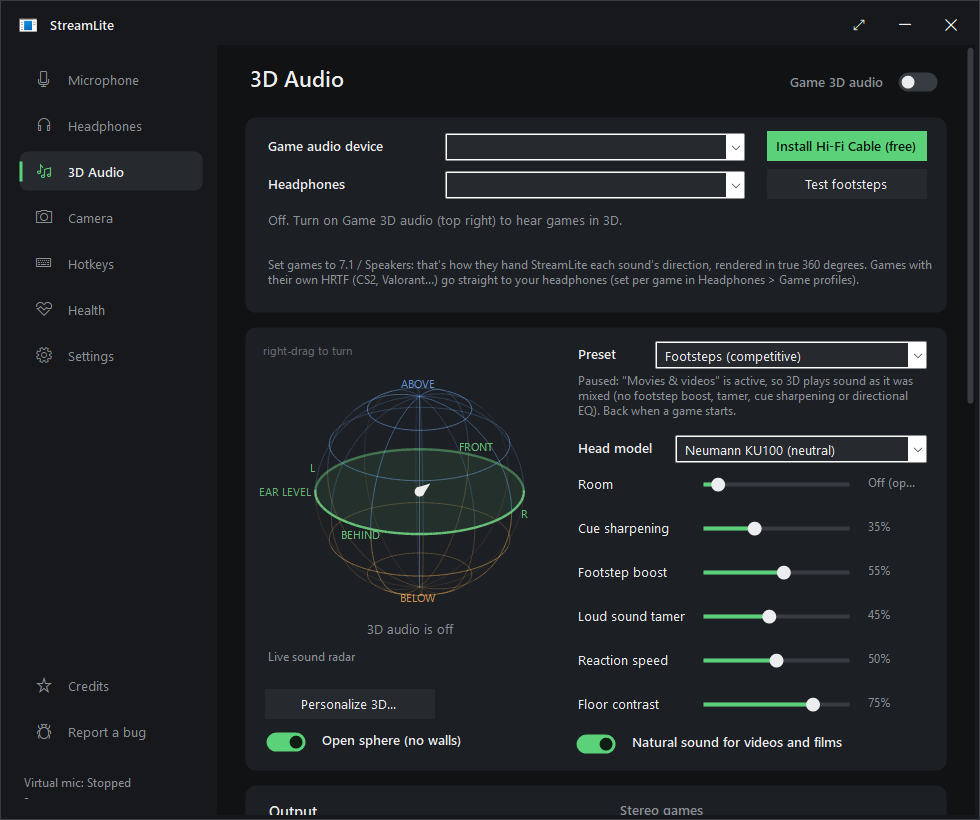
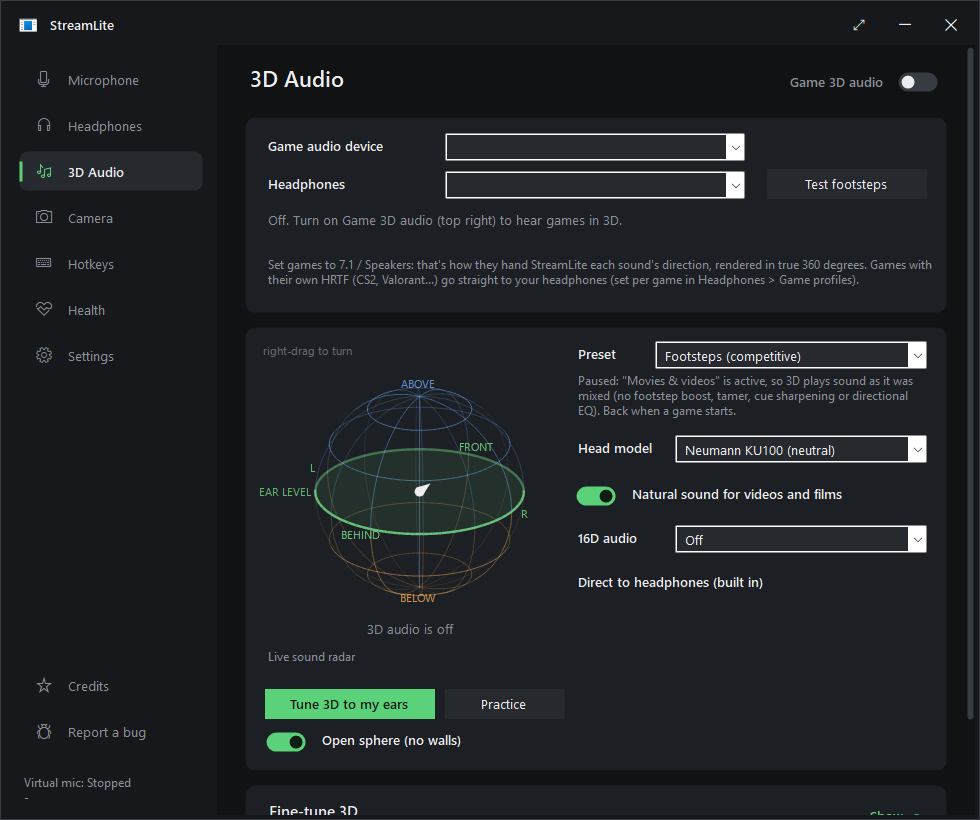
4.1.0: StreamLite is the audio engine; Practice mode; teleprompter voice setup; air drawing and camera animations; hotkeys for everything
- Audio: the engine always runs, Direct to headphones built in (Discord full-screen share keeps every app's sound),
  16D Off / Music apps / All apps, Equalizer APO in the setup
- 3D: Practice mode next to Tune 3D to my ears; a tidier page with folds
- Mic: Tune to my voice as a teleprompter (word by word, green as you say it), best quality after tuning
- Camera: air drawing, a switch per gesture (never forcing AI tracking on), animations, camera hotkeys
- Hotkeys for everything, a cleaner page and add/edit popup
- Setup: Keep my settings when updating, tile pickers, in-app popups that fit their text
- Launch with Windows and Run as administrator on by default; smoother first page opens
- Fixes: the update restarts its own copy (not the installed one through the admin task); VB-CABLE's
  spare 16ch end never taken for the mic feed; every page label fits (new PageFitTest)
- Docs: README and manual for 4.1 with new screenshots

diff --git a/docs/index.html b/docs/index.html
@@ -118,7 +118,7 @@ footer { border-top: 1px solid var(--line); padding: 30px 0 50px; color: var(--m
       <div class="card"><span class="tag">Microphone</span><h3>Sounds like a good mic</h3><p>It includes a noise gate, auto level, compressor, de-esser, de-hum, EQ and voice styles. Record yourself and hear the result before your friends do.</p></div>
       <div class="card"><span class="tag">Games</span><h3>3D game audio</h3><p>Games' 7.1 sound becomes 3D sound on any headphones, using measured human-like heads. You get true 360° placement, a footstep boost and a loud-sound tamer.</p></div>
       <div class="card"><span class="tag">Games</span><h3>A sound sphere you can turn</h3><p>It shows where sounds come from all around you: the green ear-level ring, blue above, orange below. Drag it to look from any side. Open sphere takes out walls and floors, so footsteps are never muffled.</p></div>
-      <div class="card"><span class="tag">Games</span><h3>Personalize 3D</h3><p>Fly into the sphere and click where someone walks - in front, behind, left, right, above or below, with CS2's own footsteps. In about 4 minutes it finds which of 20 measured heads fits your ears.</p></div>
+      <div class="card"><span class="tag">Games</span><h3>Personalize 3D</h3><p>Fly into the sphere and click where someone walks - in front, behind, left, right, above or below, with CS2's own footsteps. In about 4 minutes it finds which of 20 measured heads fits your ears. Practice mode trains you on your current settings for as long as you like.</p></div>
       <div class="card"><span class="tag">Headphones</span><h3>EQ for (almost) every headphone</h3><p>Thousands of measured models from AutoEq, plus squig.link's reviewers for the rest (gaming headsets too) - StreamLite makes the EQ itself. Still missing? Report it in one click.</p></div>
       <div class="card"><span class="tag">Headphones</span><h3>Presets that switch - or play together</h3><p>Each game gets its own sound, Music while Spotify plays, Chat while Discord is open. Presets together plays your game's preset on the game and Music's on Spotify at the same time.</p></div>
       <div class="card"><span class="tag">Windows</span><h3>Guided setup</h3><p>The first start walks you through everything on your whole screen: mic, headphone EQ engine, your voice, your headphones' EQ and 3D audio. Leave half way and it picks up where you left off.</p></div>
@@ -210,7 +210,7 @@ sudo zypper install --allow-unsigned-rpm ./streamlite-*.x86_64.rpm</code></pre>
     <table>
       <tr><th>Setting</th><th>What it does</th></tr>
       <tr><td>Noise removal</td><td>Voice isolation is built in - there's no engine to pick. StreamLite runs <b>DeepFilterNet 3</b>, on your graphics card on Windows or on the CPU (<b>RNNoise</b> on CPUs with fewer than 12 threads). <b>Strength</b> sets how far background noise is turned down.</td></tr>
-      <tr><td>Tune to my voice <span class="small">(Windows)</span></td><td>Five short recordings read like a teleprompter: big text, two lines in the middle, each word turning green the moment you say it (Windows' offline speech recognizer follows you word by word). Then StreamLite sets the best noise removal and quality your PC can run - DeepFilterNet on the graphics card when it fits, studio voice, the AI quality for your hardware - and shows what it chose.</td></tr>
+      <tr><td>Tune to my voice <span class="small">(Windows)</span><br><img src="img/windows-voice.png" alt="Tune to my voice: the teleprompter with the words read so far in green" loading="lazy" width="300"></td><td>Five short recordings read like a teleprompter: big text, two lines in the middle, each word turning green the moment you say it (Windows' offline speech recognizer follows you word by word). Then StreamLite sets the best noise removal and quality your PC can run - DeepFilterNet on the graphics card when it fits, studio voice, the AI quality for your hardware - and shows what it chose.</td></tr>
       <tr><td>Studio voice</td><td>On by default (Microphone page). Makes any mic sound like a broadcast mic: while you talk it learns how your voice comes through this mic and takes out the mic's colouring (thin, boxy, harsh, muffled - at most -10 / +8 dB, smooth), rebuilds the treble cheap mics cut off (headsets, laptops, Bluetooth stop at 7-13 kHz) and catches plosive pops. Learned in about 5 seconds of talking and kept per mic; <b>Learn again</b> after moving the mic. Adds no delay.</td></tr>
       <tr><td>Record a sound to remove <span class="small">(Windows)</span></td><td>For a sound noise removal lets through: a TV, kids, music. Let it play, stay quiet and press <b>Record</b> (Tuning &amp; EQ → Noise removal). In 8 seconds StreamLite learns what the noise remover leaves of it and takes that out from then on (adds 21 ms). Your own voice is learned in the background while you talk, so it isn't mistaken for the sound. For steady noise like a fan it tells you the noise remover already handles it.</td></tr>
       <tr><td>AI quality <span class="small">(Windows, Settings)</span></td><td>Where voice isolation and the AI camera run and how big their models are. <b>Low VRAM</b>: small 16-bit models, about 210 MB of video memory, the camera in 1080p. <b>Normal</b>: the full models, about 430-490 MB. <b>High VRAM</b>: the camera's cut-out worked out at full HD - cleaner hair and edges, fewer halos - about 860-890 MB. <b>Full CPU</b>: nothing on the graphics card (slowest). StreamLite picks what fits your graphics card the first time.</td></tr>
@@ -302,15 +302,30 @@ sudo zypper install --allow-unsigned-rpm ./streamlite-*.x86_64.rpm</code></pre>
     <ul>
       <li><b>AI tracking</b> of one person (click a face on the preview to switch) or a <b>group</b> (everyone stays in)</li>
       <li><b>Framing</b>: head and shoulders, half body, whole body or your own zoom, with headroom</li>
-      <li><b>Gestures</b> beside your face: open palm = tracking on/off, V = whiteboard, L = zoom (move your hand up or down)</li>
+      <li><b>Gestures</b> beside your face, each with its own switch (Camera &rarr; Gestures &amp; air drawing): open palm = tracking on/off, V = whiteboard or air drawing, L = zoom (move your hand up or down). Gestures never turn AI tracking on by themselves - only the palm does, when its switch is on.</li>
+      <li><b>Air drawing</b>: set <i>V does</i> to air drawing, make a V, then point your index finger and write in the air ("Hi!"); any other hand pose lifts the pen, a V stops. Pen colour, thickness and fading are yours; <b>Clear drawing</b> wipes it.</li>
+      <li><b>Animations</b> apps see: flip upside down, spin around, barrel roll, zoom punch and shake - buttons on the Camera page and hotkeys</li>
       <li><b>Tracking zone</b> (it never shows anything outside it) and up to six <b>pause zones</b> (step in and it frames the zone and holds still)</li>
       <li>Your own view: <b>drag</b> the preview to move, <b>mouse wheel</b> to zoom, six <b>presets</b> (also on hotkeys)</li>
       <li><b>Whiteboard</b> (found automatically, squared off, writing enhanced) and <b>desk view</b> (an area you mark)</li>
       <li><b>Level</b> a tilted camera, <b>upside down</b> for hanging or overhead cameras, a <b>vertical 9:16 guide</b> for TikTok and Shorts</li>
       <li><b>Privacy</b>: apps see "Camera paused" (button, hotkey, or automatically when you leave)</li>
     </ul>
+    <figure><img src="img/windows-camera-gestures.png" alt="The Camera page's AI tracking and Gestures &amp; air drawing cards" loading="lazy" width="720" height="854"><figcaption class="small">AI tracking, a switch per gesture, air drawing and animations</figcaption></figure>
     <p>The camera page also has every setting of your real webcam: exposure, focus, white balance and format.</p>
     <p>How good the cut-out is follows <b>AI quality</b> in Settings: <b>High VRAM</b> gives the cleanest hair and edges; on a graphics card with little video memory, pick <b>Low VRAM</b>.</p>
+  </div>
+</section>
+
+<section id="hotkeys">
+  <div class="wrap">
+    <h2>Hotkeys</h2>
+    <p>On the <b>Hotkeys</b> page, <b>Add hotkey</b> opens a popup: pick the area (Microphone, Headphones &amp; 3D, Camera, StreamLite), the action, and press the key - any key with Ctrl / Alt / Shift / Win, or a mouse side button. Click a hotkey to change it, &times; to remove it.</p>
+    <ul>
+      <li><b>Microphone</b>: mute, push to talk / to mute, noise removal, studio voice, voice lock, across the room, record a sound to remove, raw mic, voice styles</li>
+      <li><b>Headphones &amp; 3D</b>: 3D on/off, presets, 16D (next / off / music apps / all apps), open sphere, presets together, 3D for stereo, limiter, volume up / down, head model, headphone correction</li>
+      <li><b>Camera</b>: backgrounds, AI tracking, framing, upside down, HDR, zones, privacy, each gesture, air drawing and clearing it, and the animations (flip upside down, spin, barrel roll, zoom punch, shake)</li>
+    </ul>
   </div>
 </section>
 

diff --git a/test/PageFitTest.cs b/test/PageFitTest.cs
@@ -1,0 +1,64 @@
+// Every page's text fits (4.1, "make sure formatting works and everything fits"): the main window off screen with fresh
+// settings, every page shown with its folded cards opened, and every label measured - text that needs more room than
+// its label has (cut off, or "..." at the end) is a failure. Usage: run.ps1 PageFitTest
+using System;
+using System.Collections.Generic;
+using System.Drawing;
+using System.IO;
+using System.Linq;
+using System.Reflection;
+using System.Windows.Forms;
+using StreamLite;
+using StreamLite.UI;
+
+class PageFitTest
+{
+    static int fails;
+    static void Check(bool ok, string what) { Console.WriteLine((ok ? "  PASS " : "  FAIL ") + what); if (!ok) fails++; }
+
+    static IEnumerable<Control> Descend(Control c) { foreach (Control k in c.Controls) { yield return k; foreach (var d in Descend(k)) yield return d; } }
+
+    [STAThread]
+    static void Main()
+    {
+        string data = Path.Combine(Path.GetTempPath(), "StreamLite-pagefit");
+        Directory.CreateDirectory(data); foreach (var f in Directory.GetFiles(data)) File.Delete(f);
+        Environment.SetEnvironmentVariable("STREAMLITE_DATA", data);
+        Application.EnableVisualStyles();
+        var core = new AppCore();
+        foreach (var f in typeof(AppCore).GetFields(BindingFlags.Instance | BindingFlags.NonPublic | BindingFlags.Public)) if (f.FieldType == typeof(Timer)) { var tm = (Timer)f.GetValue(core); if (tm != null) tm.Stop(); }
+        var main = new MainForm(core) { ShowInTaskbar = false, StartPosition = FormStartPosition.Manual, Location = new Point(-20000, -20000), Size = new Size(980, 820) };
+        main.Show(); Application.DoEvents();
+        var pages = (System.Collections.IList)typeof(MainForm).GetField("pages", BindingFlags.Instance | BindingFlags.NonPublic).GetValue(main);
+        var show = typeof(MainForm).GetMethod("ShowPage", BindingFlags.Instance | BindingFlags.NonPublic);
+        var over = new List<string>();
+        int measured = 0;
+        for (int i = 0; i < pages.Count; i++)
+        {
+            var page = (Control)pages[i];
+            show.Invoke(main, new object[] { i });
+            Application.DoEvents();
+            string name = page.Controls.OfType<Label>().Select(l => l.Text).FirstOrDefault() ?? ("page " + i);
+            // Open every fold ("Show"), so the text inside them is measured too.
+            foreach (var chev in Descend(page).OfType<Label>().Where(l => l.Text.StartsWith("Show")).ToList()) { chev.GetType().GetMethod("OnClick", BindingFlags.Instance | BindingFlags.NonPublic).Invoke(chev, new object[] { EventArgs.Empty }); }
+            Application.DoEvents();
+            foreach (var l in Descend(page).OfType<Label>())
+            {
+                if (!l.Visible || string.IsNullOrEmpty(l.Text) || l.Width <= 0) continue;
+                measured++;
+                var flags = TextFormatFlags.NoPrefix | (l.UseMnemonic ? 0 : TextFormatFlags.NoPrefix);
+                Size need;
+                if (l.AutoSize) continue;   // grows with its text
+                bool oneLine = l.Height < l.Font.Height * 2 - 2;
+                if (oneLine) need = TextRenderer.MeasureText(l.Text, l.Font, new Size(int.MaxValue, l.Height), flags | TextFormatFlags.SingleLine);
+                else need = TextRenderer.MeasureText(l.Text, l.Font, new Size(l.Width - l.Padding.Horizontal, int.MaxValue), flags | TextFormatFlags.WordBreak);
+                bool fits = oneLine ? need.Width <= l.Width + 2 : need.Height <= l.Height + 2;
+                if (!fits) over.Add(name + ": \"" + (l.Text.Length > 60 ? l.Text.Substring(0, 60) + "..." : l.Text) + "\" needs " + need.Width + "x" + need.Height + ", has " + l.Width + "x" + l.Height);
+            }
+        }
+        foreach (var o in over) Console.WriteLine("    " + o);
+        Check(over.Count == 0, measured + " labels on " + pages.Count + " pages (folds open): " + over.Count + " don't fit");
+        Console.WriteLine(fails == 0 ? "ALL PASS" : fails + " FAILED");
+        main.Hide(); Environment.Exit(fails);
+    }
+}

diff --git a/src/Credits.cs b/src/Credits.cs
@@ -31,7 +31,7 @@ namespace StreamLite
         public static readonly string[] Groups = { Models, Libraries, Ideas, Downloads, Tools };
 
         /// <summary>Every public release, oldest first.</summary>
-        public static readonly string[] Versions = { "2.1.0", "2.2.0", "2.2.1", "2.2.2", "2.3.0", "2.3.1", "2.4.0", "2.5.0", "2.6.0", "2.7.0", "3.0.0", "3.0.1", "3.0.2", "3.1.0", "3.1.1", "3.2.0", "3.3.0", "3.3.1", "3.4.0", "3.5.0", "3.5.1", "3.5.2", "3.5.3", "3.5.4", "3.5.5", "3.5.6", "3.5.7", "3.5.8", "3.5.9", "4.0.0", "4.0.1", "4.0.2", "4.0.3", "4.0.4", "4.0.5", "4.0.6", "4.0.7", "4.0.8", "4.0.9" };
+        public static readonly string[] Versions = { "2.1.0", "2.2.0", "2.2.1", "2.2.2", "2.3.0", "2.3.1", "2.4.0", "2.5.0", "2.6.0", "2.7.0", "3.0.0", "3.0.1", "3.0.2", "3.1.0", "3.1.1", "3.2.0", "3.3.0", "3.3.1", "3.4.0", "3.5.0", "3.5.1", "3.5.2", "3.5.3", "3.5.4", "3.5.5", "3.5.6", "3.5.7", "3.5.8", "3.5.9", "4.0.0", "4.0.1", "4.0.2", "4.0.3", "4.0.4", "4.0.5", "4.0.6", "4.0.7", "4.0.8", "4.0.9", "4.1.0" };
 
         /// <summary>What changed in the credits with each release.</summary>
         public static readonly Dictionary<string, string> Changes = new Dictionary<string, string>
@@ -61,6 +61,7 @@ namespace StreamLite
             { "3.5.3", "No new third-party code, models or data. Uninstalling can now remove VB-CABLE, Hi-Fi Cable and Equalizer APO (already credited) with Windows' pnputil and Equalizer APO's own uninstaller." },
             { "3.5.5", "No new third-party code, models or data." },
             { "3.5.4", "No new third-party code, models or data. VB-CABLE and Hi-Fi Cable (VB-Audio, credited here) now appear on your PC only as StreamLite - In / StreamLite - Out (Device Manager included); their setup leftovers are tidied away." },
+            { "4.1.0", "StreamLite is the audio engine (Direct to headphones built in); Practice mode; teleprompter voice setup with Windows' own speech recognizer; air drawing and camera animations; hotkeys for everything; in-app popups; smoother pages" },
             { "4.0.9", "Loose ends before 4.1: presets together gives apps back when off, no 16D over a game, setup resume keeps your EQ, squig.link lookups retried and shared" },
             { "4.0.8", "The 3D Audio page's sound radar is a sphere (Windows and Linux); GitHub page and manual up to date" },
             { "4.0.7", "Presets together (game + music at once); squig.link backup for headphone EQs and a report button; setup sphere; every footstep starts facing forward" },

diff --git a/test/RetuneShots.cs b/test/RetuneShots.cs
@@ -137,6 +137,17 @@ class RetuneShots
         Check(phase() == "Quiet" || phase() == "Talk", "when the countdown ends, recording starts (" + phase() + ")");
         Check(rec.Mode == RecordButton.Look.Recording, "the button turns red while recording");
         Save(v, dir, "6-recording");
+        // Half way through the first line: the words read so far green, the rest white (the picture in the manual).
+        var prompter = (Teleprompter)t.GetField("prompter", Any).GetValue(v);
+        if (phase() == "Quiet") { t.GetField("phase", Any).SetValue(v, Enum.Parse(t.GetField("phase", Any).FieldType, "Talk")); }
+        prompter.Visible = true; prompter.Heard = 15; prompter.Run(true); prompter.Run(false);
+        // Its frames stepped by hand (no message loop: the dialog's own timer would set the words heard back to the mic's).
+        var step = typeof(Teleprompter).GetMethod("Step", Any);
+        var settleUntil = DateTime.Now.AddMilliseconds(700);
+        while (DateTime.Now < settleUntil) { step.Invoke(prompter, null); System.Threading.Thread.Sleep(8); }
+        ((Timer)t.GetField("timer", Any).GetValue(v)).Stop();
+        ((Label)t.GetField("progress", Any).GetValue(v)).Text = "15 of " + prompter.WordCount + " words";
+        Save(v, dir, "7-reading");
         v.Close(); v.Dispose();
         Console.WriteLine("  pictures in " + Path.GetFullPath(dir));
         Console.WriteLine(fails == 0 ? "ALL PASS" : fails + " FAILED");

diff --git a/src/UI/GameAudioPage.cs b/src/UI/GameAudioPage.cs
@@ -261,7 +261,7 @@ namespace StreamLite.UI
             fineCard = fine;
             var fineTitle = Theme.Help(Theme.Label(fine, "Fine-tune 3D", 20, 16, Theme.Section), "The settings 3D presets and Personalize 3D set for you - adjust them by hand here.");
 
-            Row(fine, 20, 56, "Room", 0, 150, () => G.Room, v => G.Room = v, v => G.OpenSphere ? "Off (open sphere)" : v == 0 ? "Off (dry)" : v + "%",
+            Row(fine, 20, 56, "Room", 0, 150, () => G.Room, v => G.Room = v, v => G.OpenSphere ? "Off" : v == 0 ? "Off (dry)" : v + "%",   // open sphere: no room (its help says why; the longer text didn't fit)
 
                 "Adds the reflections of a real studio room (measured with the same head). A little room makes sound feel outside your head instead of inside it.\n0 = completely dry and most precise, 15-30% = natural, more = spacious.\nOnly with Open sphere off - the open sphere has no walls to reflect from.");
 

diff --git a/src/UI/CameraGesturesCard.cs b/src/UI/CameraGesturesCard.cs
@@ -106,7 +106,7 @@ namespace StreamLite.UI
         /// <summary>What the gestures are doing, or exactly why they can't.</summary>
         string Status()
         {
-            if (!HandGestures.Installed) return "The hand models aren't installed (ai\\" + HandGestures.PalmFile + ", " + HandGestures.LandmarkFile + ") - reinstall StreamLite to use gestures and air drawing.";
+            if (!HandGestures.Installed) return "The hand models aren't installed - reinstall StreamLite to use gestures and air drawing.";   // (ai\" + PalmFile / LandmarkFile: too long for its line)
             if (!CameraFx.ModelsInstalled) return "The camera's AI files (with its face detector) are missing - reinstall StreamLite; gestures need them to find your face.";
             var fx = core.CamFx;
             if (fx == null) return "";

diff --git a/src/UI/MainForm.cs b/src/UI/MainForm.cs
@@ -1279,7 +1279,7 @@ namespace StreamLite.UI
         {
             var eq = core.S.MicEq;
             int n = eq.AllFilters().Count;
-            eqSummary.Text = !eq.Enabled ? "Off" : n == 0 ? "Flat - open Tuning to shape your voice" : n + " bands adjusted";
+            eqSummary.Text = !eq.Enabled ? "Off" : n == 0 ? "Flat" : n + " bands adjusted";   // fits its 150 px (the Tuning & EQ button is right beside it)
         }
 
         /// <summary>"Mic to cable 5.1 ms (low latency) + 20 ms noise removal - sent privately".</summary>

diff --git a/src/Program.cs b/src/Program.cs
@@ -12,8 +12,8 @@ using StreamLite.UI;
 [assembly: AssemblyProduct("StreamLite")]
 [assembly: AssemblyDescription("Microphone noise removal, EQ, 3D game audio and camera controls")]
 [assembly: AssemblyCompany("StreamLite")]
-[assembly: AssemblyVersion("4.0.9.0")]
-[assembly: AssemblyFileVersion("4.0.9.0")]
+[assembly: AssemblyVersion("4.1.0.0")]
+[assembly: AssemblyFileVersion("4.1.0.0")]
 
 namespace StreamLite
 {

diff --git a/linux/Program.cs b/linux/Program.cs
@@ -12,7 +12,7 @@ namespace StreamLite
 {
     internal static class Program
     {
-        public const string Version = "4.0.9";
+        public const string Version = "4.1.0";
         const string PipeName = "streamlite-show";
 
         [STAThread]

diff --git a/CREDITS.md b/CREDITS.md
@@ -5,6 +5,66 @@ with links to their source. The same list is in the app (the **Credits** button 
 GitHub release. Licenses and notices: [THIRD-PARTY-NOTICES.md](THIRD-PARTY-NOTICES.md).
 This file is generated from `src/Credits.cs` (run `test\run.ps1 CreditsTest write`).
 
+## StreamLite 4.1.0
+
+_StreamLite is the audio engine (Direct to headphones built in); Practice mode; teleprompter voice setup with Windows' own speech recognizer; air drawing and camera animations; hotkeys for everything; in-app popups; smoother pages_
+
+**AI models and measured data**
+
+- [DeepFilterNet 3](https://github.com/Rikorose/DeepFilterNet) - AI noise removal (studio-quality model). Hendrik Schröter, Tobias Rosenkranz, Alberto N. Escalante-B., Andreas Maier. MIT or Apache-2.0. [Model / data](https://huggingface.co/kimtos-labs/denoiser-dfn3).
+- [torchDF](https://github.com/grazder/DeepFilterNet) - Streaming ONNX export of DeepFilterNet 3 (the model file StreamLite runs). grazder. MIT or Apache-2.0.
+- [RNNoise](https://github.com/xiph/rnnoise) - Light AI noise removal (C# port of v0.1.1 and its trained model). Jean-Marc Valin, Mozilla, Xiph.Org Foundation. BSD-3-Clause. [Model / data](https://github.com/xiph/rnnoise/blob/v0.1.1/src/rnn_data.c).
+- [SADIE II HRTF database](https://www.york.ac.uk/sadie-project/database.html) - 3D audio: measured head responses at full resolution - the KU100 and KEMAR dummy heads and 18 human heads. University of York - C. Armstrong, L. Thresh, D. Murphy, G. Kearney. Apache-2.0.
+- [Robust Video Matting](https://github.com/PeterL1n/RobustVideoMatting) (Windows) - AI camera: cuts you out of the room (blur, green screen, picture, video). Shanchuan Lin, Linjie Yang, Imran Saleemi, Soumyadip Sengupta (ByteDance). GPL-3.0. [Model / data](https://github.com/PeterL1n/RobustVideoMatting/releases/download/v1.0.0/rvm_mobilenetv3_fp32.onnx).
+- [Ultra-Light-Fast-Generic-Face-Detector-1MB (UltraFace)](https://github.com/Linzaer/Ultra-Light-Fast-Generic-Face-Detector-1MB) (Windows) - AI camera: face tracking. Linzaer. MIT. [Model / data](https://github.com/Linzaer/Ultra-Light-Fast-Generic-Face-Detector-1MB/blob/master/models/onnx/version-RFB-320.onnx).
+- [MediaPipe Hands (palm detection + hand landmarks)](https://github.com/opencv/opencv_zoo) (Windows) - AI camera: hand gestures (open palm, V, L) - the 2023 models as published in the OpenCV model zoo. Google (MediaPipe); OpenCV model zoo. Apache-2.0. [Model / data](https://huggingface.co/opencv/palm_detection_mediapipe).
+- [3D-Speaker CAM++ (speech_campplus_sv_en_voxceleb_16k)](https://github.com/modelscope/3D-Speaker) (Windows) - Only my voice: tells your voice from someone else's in the room (speaker recognition, trained on VoxCeleb). Alibaba Group (3D-Speaker); ONNX export by k2-fsa/sherpa-onnx. Apache-2.0. [Model / data](https://github.com/k2-fsa/sherpa-onnx/releases/tag/speaker-recongition-models).
+- [SoundGuys headphone measurements](https://www.soundguys.com) - Built-in correction for the Sennheiser MOMENTUM 5 (B&K 5128 measurement). SoundGuys. Measurement used with thanks.
+- [Counter-Strike 2 footstep sounds](https://www.counter-strike.net) (Windows) - Personalize 3D's footsteps when CS2 is installed: read from the game on your PC while the test runs - not included in StreamLite. Valve Corporation. Valve's; read from your own copy of the game, never copied or shipped.
+
+**Libraries and runtimes**
+
+- [ONNX Runtime](https://github.com/microsoft/onnxruntime) - Runs the AI models (and, from 2.3.0, optimizes the Low VRAM model files). Microsoft. MIT.
+- [DirectML](https://github.com/microsoft/DirectML) (Windows) - Runs the AI models on any DirectX 12 graphics card. Microsoft. Microsoft Software License Terms (redistributable).
+- [.NET runtime](https://github.com/dotnet/runtime) (Linux) - Runs StreamLite for Linux (included). .NET Foundation and contributors. MIT.
+- [Avalonia UI](https://github.com/AvaloniaUI/Avalonia) (Linux) - The Linux interface. AvaloniaUI OÜ and contributors. MIT.
+- [SkiaSharp / HarfBuzzSharp](https://github.com/mono/SkiaSharp) (Linux) - Drawing and text for the Linux interface (Skia, HarfBuzz). Microsoft / .NET Foundation; Google (Skia); the HarfBuzz authors. MIT; BSD-3-Clause (Skia); MIT (HarfBuzz).
+- [Inter](https://github.com/rsms/inter) (Linux) - Interface font. Rasmus Andersson. SIL Open Font License 1.1.
+- [PipeWire / PulseAudio](https://pipewire.org) (Linux) - Linux audio (your system's libpulse and pactl). Wim Taymans and the PipeWire contributors; the PulseAudio developers. MIT / LGPL-2.1.
+
+**Code, ideas and research**
+
+- [EarTrumpet](https://github.com/File-New-Project/EarTrumpet) (Windows) - How per-app audio routing works on Windows. File-New-Project. MIT.
+- [Impulcifer](https://github.com/jaakkopasanen/Impulcifer) - HeSuVi 14-channel HRIR track order. Jaakko Pasanen. MIT.
+- [VCamSample](https://github.com/smourier/VCamSample) (Windows) - Structure of the Windows 11 virtual camera. Simon Mourier. MIT.
+- [Guided Image Filtering](https://doi.org/10.1109/TPAMI.2012.213) (Windows) - AI camera: denoise, skin smoothing and crisp cut-out edges. Kaiming He, Jian Sun, Xiaoou Tang. Published research.
+- [ITU-R BS.1770 loudness weighting](https://www.itu.int/rec/R-REC-BS.1770) - K-weighting: every game profile matched to the same loudness. International Telecommunication Union. Published standard.
+- [Non-negative matrix factorization](https://doi.org/10.1038/44565) - Record a sound to remove: that sound and your voice as learned spectral patterns, separated moment by moment. Daniel D. Lee, H. Sebastian Seung. Published research.
+- [ANSI S3.5-1997 standard speech spectrum](https://webstore.ansi.org/standards/asa/ansis31997r2017) - Studio voice: what speech through a good close mic sounds like (the target your mic is corrected towards). Acoustical Society of America / ANSI. Published standard.
+- [Spectral band replication](https://www.aes.org/e-lib/browse.cfm?elib=11229) - Studio voice: treble a cheap mic cuts off, rebuilt from the octave below. Martin Dietz, Lars Liljeryd, Kristofer Kjorling, Oliver Kunz (Coding Technologies). Published research.
+- [Linkwitz-Riley crossover](https://www.linkwitzlab.com/filters.htm) - Studio voice: plosive pops' rumble split off and turned down, the rest adding back up exactly. Siegfried Linkwitz, Russ Riley. Published research.
+- [Hilbert transformer (allpass pair)](https://yehar.com/blog/) - Studio voice: the treble rebuild's shift, with no delay (two allpass chains 90 degrees apart). Olli Niemitalo. Published design.
+- [Cascade graphic equalizer design](https://dafx.de/paper-archive/details/Ycir51R86FWcfPNqrjV2kQ) - Studio voice: the 25 band filters' gains solved together for the correction (the band interaction taken into account). Juho Liski, Vesa Välimäki. Published research.
+- [Square-to-quadrilateral mapping](https://www2.eecs.berkeley.edu/Pubs/TechRpts/1989/5504.html) (Windows) - AI camera: the virtual gimbal's views - whiteboard and desk view squared off, levelling, upside-down cameras. Paul S. Heckbert. Published research.
+
+**Downloaded when you ask for them**
+
+- [AutoEq](https://github.com/jaakkopasanen/AutoEq) - Headphone corrections for thousands of headphones (Find my headphones). Jaakko Pasanen and the measurement contributors (oratory1990, crinacle, Rtings, Innerfidelity...). MIT. [Model / data](https://github.com/jaakkopasanen/AutoEq/tree/master/results).
+- [squig.link](https://squig.link) - Find my headphones' backup: frequency response measurements from ~150 reviewers' databases (gaming headsets, IEMs, earbuds AutoEq hasn't measured); StreamLite fits their EQ against AutoEq's Harman targets. Super* Review (squig.link) and every reviewer listed in squigsites.json. Each reviewer's own; downloaded only for the model you pick. [Model / data](https://squig.link/squigsites.json).
+- [VB-CABLE and Hi-Fi Cable](https://vb-audio.com/Cable/) (Windows) - The virtual mic cable and the 3D game audio device. VB-Audio Software (Vincent Burel). Donationware - please support VB-Audio.
+- [Equalizer APO](https://sourceforge.net/projects/equalizerapo/) (Windows) - System-wide headphone EQ. Jonas Thedering. GPL-2.0.
+
+**Built with**
+
+- [WiX Toolset](https://github.com/wixtoolset/wix) (Windows) - The Windows installer (MSI). .NET Foundation and contributors. MS-RL.
+- [Zig](https://github.com/ziglang/zig) (Windows) - Builds the virtual camera's native DLL. Andrew Kelley and the Zig contributors. MIT.
+- [appimagetool](https://github.com/AppImage/appimagetool) (Linux) - The Linux AppImage. Simon Peter and the AppImage contributors. MIT.
+- [DNSMOS P.835](https://github.com/microsoft/DNS-Challenge) - Judged the voice quality of every version of the mic chain while tuning it (development only, not included). Chandan K. A. Reddy, Vishak Gopal, Ross Cutler (Microsoft). CC-BY-4.0.
+- [h5py](https://github.com/h5py/h5py) - Reads the SADIE II head measurements (tools/make_hrtf.py; development only, not included). Andrew Collette and the h5py contributors. BSD-3-Clause.
+- [ONNX](https://github.com/onnx/onnx) - Builds and adapts the model files (tools/make_camfx.py). ONNX Project Contributors (LF AI & Data). Apache-2.0.
+- [NumPy](https://github.com/numpy/numpy) - Model-building scripts. NumPy Developers. BSD-3-Clause.
+- [onnxconverter-common](https://github.com/microsoft/onnxconverter-common) - Half-precision Low VRAM model files. Microsoft. MIT.
+
 ## StreamLite 4.0.9
 
 _Loose ends before 4.1: presets together gives apps back when off, no 16D over a game, setup resume keeps your EQ, squig.link lookups retried and shared_

diff --git a/CHANGELOG.md b/CHANGELOG.md
@@ -1,5 +1,49 @@
 # Changelog
 
+## 4.1.0
+
+**StreamLite is the audio engine.** Game and app sound plays through StreamLite straight to your headphones, Direct to headphones is built in (no toggle), and Discord can share your whole screen with sound.
+
+### Audio
+- StreamLite's audio engine always runs: game and app sound goes through StreamLite and out to your headphones on the lowest-delay path, whether 3D is on or off. With 3D off it plays plain stereo.
+- Direct to headphones is built in, not a toggle: apps that send sound straight to your headphones (music, chat, videos) play there directly, and the 3D game sound joins them on the headphones. Discord's full-screen share with sound works: Discord takes each app's sound from the app itself, so games and apps that play through StreamLite are shared too, and Discord's own voices aren't (checked on Windows 11).
+- 16D audio is one choice on the 3D Audio page: **Off**, **Music apps** (Spotify, music players) or **All apps** (every app but voice chat, while no game runs).
+- Equalizer APO (the system-wide EQ engine) is set up in the guided setup now; its card moved from Headphones to Settings ("Fallback EQ engine").
+
+### 3D audio
+- Personalize 3D has two modes: **Tune 3D to my ears** (finds your head and tunes it, as before) and **Practice** - no tuning, your current settings, footsteps from the six directions for as long as you like, with your score. Esc ends it with a summary.
+- The 3D Audio page is tidier: the main card has the sphere, preset, head, 16D, Direct to headphones and the two Personalize buttons; the fine-tuning sliders, outputs & apps and the directional EQ fold away under "Show" (nothing was removed).
+
+### Microphone
+- Tune to my voice reads like a teleprompter: big text, two lines in the middle, the line you just read sliding up and out at the top and the next one coming in at the bottom. Each word turns green the moment you say it (Windows' offline speech recognizer follows you word by word), the words still to read are white.
+- After the recordings, StreamLite sets the best noise removal and voice quality your PC can run: DeepFilterNet on your graphics card when it has the room, studio voice on, the AI quality tier for your hardware - and tells you what it chose.
+- The Microphone page folds its extra cards ("More voice settings", "More mic options").
+
+### Camera
+- **Air drawing**: set "V does" to air drawing, make a V, then point your index finger and write in the air - "Hi!" appears on the picture apps see. Any other hand pose lifts the pen, a V stops. Pen colour, thickness and fading are yours; **Clear drawing** wipes it. The drawing stays put with Mirror and Upside down.
+- Each gesture has its own switch (palm, V, L, point to draw) instead of one for all; settings from before copy the old switch.
+- Gestures never turn AI tracking on by themselves any more: hands are found next to faces from the camera effects' own face finder, so tracking can stay off. Only the open palm, with its switch on, turns tracking on or off.
+- Gestures fire once per showing (held 0.4 s; again only after the hand was away for 0.7 s) - no more flipping back and forth.
+- Camera animations apps see: **Flip upside down**, **Spin around**, **Barrel roll**, **Zoom punch**, **Shake** - buttons on the Camera page and hotkeys. Upside down itself turns the picture at once now (it used to glide and shrink through a point).
+- The Camera page folds "AI tracking & framing" and "Gestures & air drawing" (AI tracking's switch stays on the StreamLite Camera card).
+
+### Hotkeys
+- Hotkeys for (almost) everything: mic (studio voice, voice lock, across the room, record a sound to remove, raw mic, share), outputs (open sphere, presets together, 3D for stereo, keep out, limiter, volume up/down, head, headphone correction), 16D (next / off / music / all) and the camera: framing, single / group, upside down, HDR, face exposure, 9:16 guide, pause when I leave, tracking zone, 4K capture, StreamLite Camera on / off, each gesture, air drawing on / off and clear, and every animation.
+- A cleaner Hotkeys page: one row per hotkey (what it does, its key, remove), and **Add a hotkey** opens a popup: pick the area, the action and the key.
+
+### Setup and app
+- Updating from 4.0.5 or later with your settings saved: the setup asks first and **Keep my settings** skips it (your mic, headphone EQ and 3D tuning stay). New installs still go through it.
+- The setup's mic and headphone pickers are big tiles with each device's name and kind instead of drop-down lists.
+- Popups open inside StreamLite's window: the window behind dims, the popup can only be closed (not dragged), and every line fits - the setup's step 2 text no longer cuts off after "when".
+- Launch with Windows is on by default for new installs.
+- Run as administrator is on by default, and the settings that need it (hidden virtual devices, the virtual camera, the lowest-delay mic) work after the setup without turning it on first: the setup creates StreamLite's administrator start task.
+- Smoother: pages are prepared while StreamLite is idle, so the first open of a page no longer hitches (3D Audio 100 -> 21 ms, Camera 64 -> 4 ms, Settings 45 -> 1 ms), the 3D page reads its devices once instead of four times, and startup reuses the previous run's compiled code on spare cores.
+
+### Fixes
+- After an update, StreamLite restarts itself - not another StreamLite on the PC: with Run as administrator, the update (and a portable copy beside the installed one) used to start the installed copy through its administrator task.
+- VB-CABLE's spare 16-channel end ("CABLE In 16ch") is never taken for the mic feed: once the cable was renamed "StreamLite Mic" it matched too, so the next tidy-up could give it the feed's name, and the mic feed check said the cables weren't named.
+- Every label on every page fits its text (checked by a new test): the Microphone page's EQ summary and the 3D page's Room value were cut off.
+
 ## 4.0.9
 
 The last 4.0 update: fixes and loose ends before 4.1.

diff --git a/README.md b/README.md
@@ -57,8 +57,9 @@ corrects your headphones to sound neutral, and switches headphone profiles for g
   **Presets together** plays them at the same time: your game's preset on the game's sound and Music's on Spotify.
 - **AI camera (Windows 11).** A "StreamLite Camera" virtual webcam with background blur, AI green screen and auto light,
   that works like an AI gimbal camera (Insta360 Link 2 style) with any webcam: tracking one person or a group, head /
-  half body / whole body framing, hand gestures, tracking and pause zones, presets, whiteboard and desk view, levelling,
-  upside-down mounting, HDR, face exposure and privacy.
+  half body / whole body framing, hand gestures (each with its own switch), **air drawing** (make a V, then write in
+  the air with your index finger), camera animations (flip upside down, spin, roll, zoom punch, shake), tracking and
+  pause zones, presets, whiteboard and desk view, levelling, upside-down mounting, HDR, face exposure and privacy.
 - **AI quality (Settings).** One choice for voice isolation and the AI camera: **Low VRAM** (about 210 MB of video
   memory), **Normal** (about 430-490 MB), **High VRAM** (about 860-890 MB, the camera's cut-out at full HD) or
   **Full CPU** (no video memory, slowest).
@@ -80,6 +81,8 @@ corrects your headphones to sound neutral, and switches headphone profiles for g
 | The setup's 3D step: drag the sphere, click Start and you fly into it | Inside Personalize 3D: you in the middle, the six directions around you |
 | ![The Headphones page with headphone correction, game profiles and Presets together](docs/img/windows-headphones.png) | ![The Microphone page](docs/img/windows-mic.png) |
 | Headphones: correction, profiles and Presets together | Microphone: AI noise removal, studio voice, EQ |
+| ![Tune to my voice: the teleprompter, words turning green as you read](docs/img/windows-voice.png) | ![The Camera page's tracking and gestures cards: a switch per gesture, air drawing, animations](docs/img/windows-camera-gestures.png) |
+| Tune to my voice: read along, each word turns green as you say it | Camera: a switch per gesture, air drawing, animations |
 
 ## Install
 
